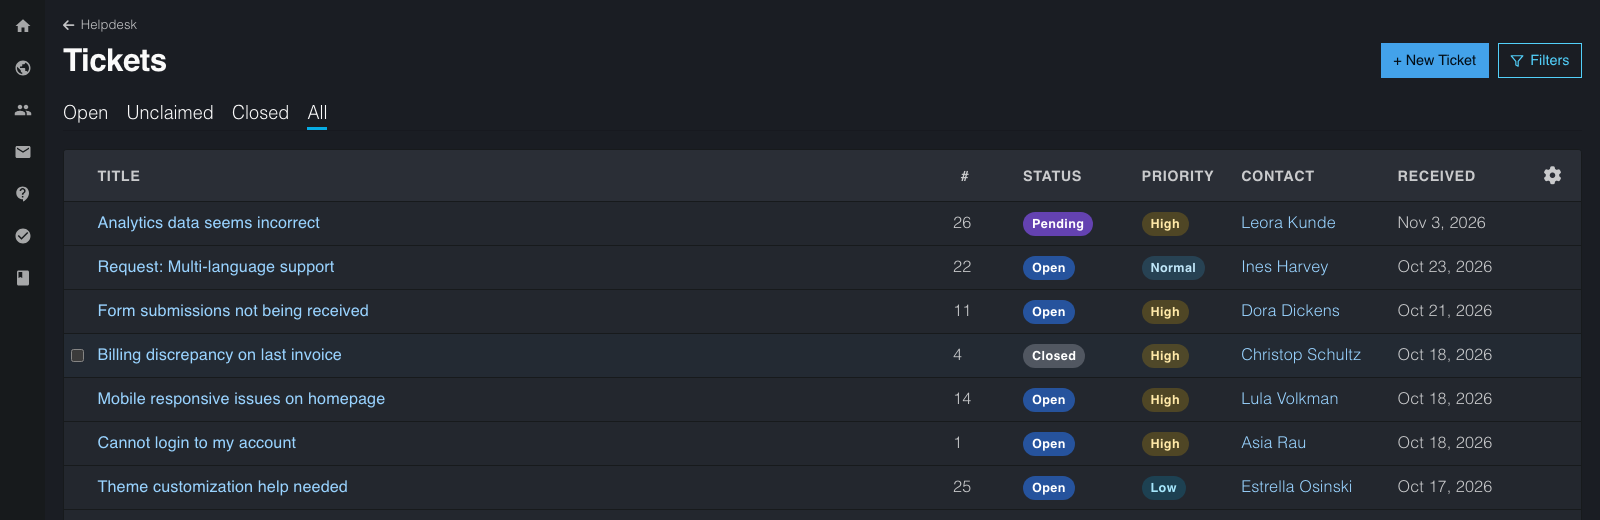
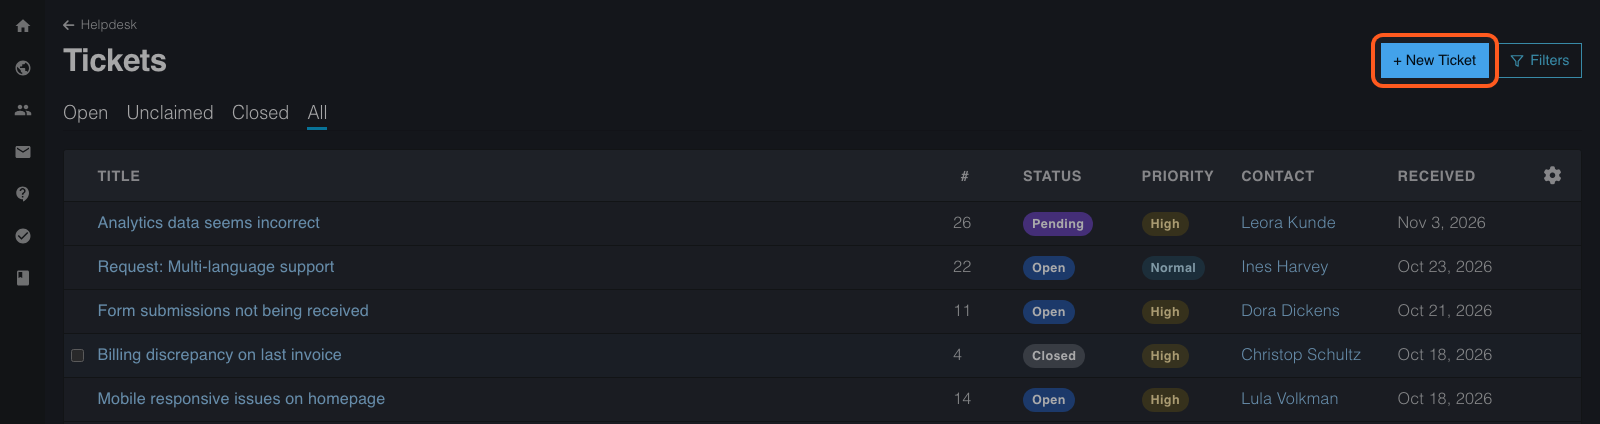
docs(dashboard): retake helpdesk ticket list picture
Retook the ticket list with the Assigned To column hidden and whole rows only.

diff --git a/dashboard/helpdesk.md b/dashboard/helpdesk.md
@@ -1,6 +1,6 @@
 # Helpdesk
 
-**Last verified:** 2026-11-07 9:51am
+**Last verified:** 2026-11-07 10:25am
 
 The Helpdesk gives your workspace a complete customer support system. Use it to manage support tickets, organize your team, build a knowledge base for self-service, and track how quickly your team responds to customers -- all from your WebNesting workspace.
 
